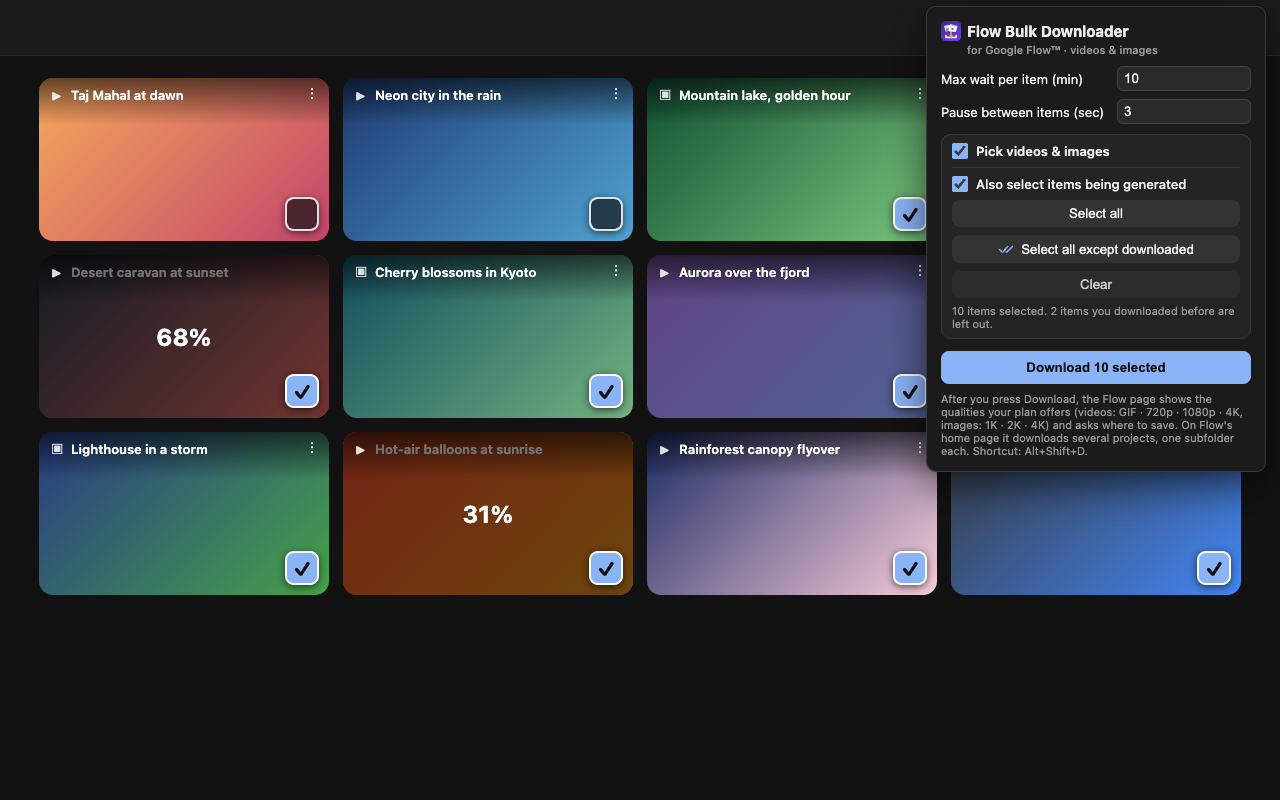
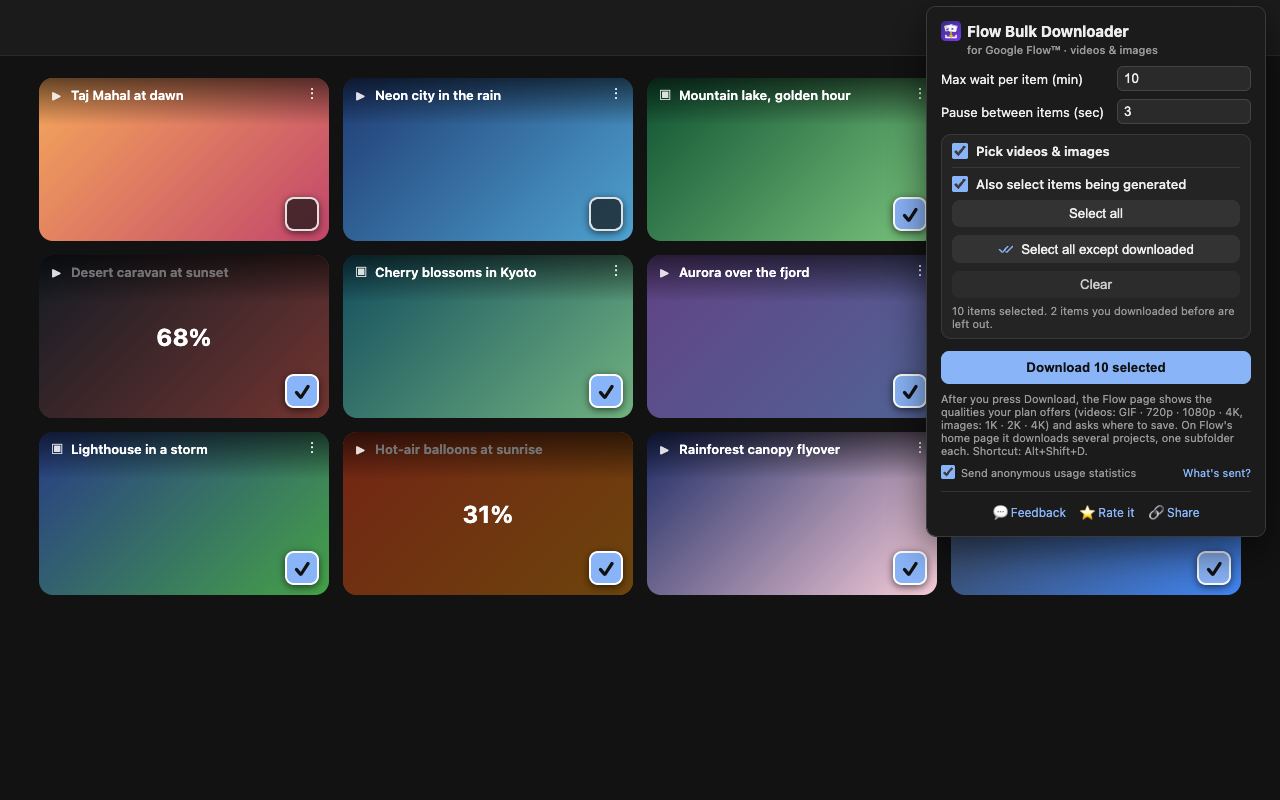
Flow Bulk Downloader 2.6.3 on the site: version, changelog, popup screenshot
- site.js: version 2.6.3 and its release date
- Changelog entries for 2.6.3 in all six languages
- shot-pick: new popup screenshot with the usage-statistics switch and
  the Feedback / Rate it / Share links

Changed region(s): [[0.6875, 0.5625, 0.9688, 0.7188]]

diff --git a/src/i18n/flow/vi.js b/src/i18n/flow/vi.js
@@ -268,6 +268,11 @@ export default {
   changelog: {
     title: "Nhật ký thay đổi",
     entries: {
+      "2.6.3": [
+        "Thêm liên kết Góp ý, Đánh giá và Chia sẻ trong cửa sổ bật lên.",
+        "Sau vài lần tải xuống thành công, tiện ích hỏi một lần xem nó có hoạt động tốt với bạn không, để vấn đề đến với chúng tôi nhanh hơn.",
+        "Một trang chào mừng ngắn sau khi cài đặt và một khảo sát tùy chọn một câu hỏi nếu bạn gỡ cài đặt."
+      ],
       "2.6.2": [
         "Chọn cả các mục đang được tạo: mỗi mục được tải ngay khi Flow tạo xong, và số thứ tự tệp vẫn theo thứ tự dự án.",
         "Trạng thái mới ⏳ ĐANG CHỜ trên các ô đang được tạo. Mục nào Flow không tạo được sẽ được nêu tên ở cuối.",

diff --git a/src/site.js b/src/site.js
@@ -18,7 +18,7 @@ export const FLOW = {
   privacyPath: "/e/flow-downloader/privacy/",
   name: "Flow Bulk Downloader",
   storeName: "Bulk Downloader for Google Flow™ – Videos & Images",
-  version: "2.6.2",
+  version: "2.6.3",
   // Chrome Web Store listing. Empty = the page says "Coming soon".
   chromeStoreUrl: "https://chromewebstore.google.com/detail/bulk-downloader-for-googl/cbnojammdmehkhjmngnomofcjejleglf",
   // Copy these from the store listing now and then (shown next to the Add to Chrome button).
@@ -129,6 +129,7 @@ export const WEBSITES = [
 
 // Changelog, newest first. The text of each entry is translated in src/i18n/flow/<lang>.js (changelog.entries).
 export const RELEASES = [
+  { version: "2.6.3", date: "2026-11-20" },
   { version: "2.6.2", date: "2026-11-16" },
   { version: "2.6.1", date: "2026-11-06" },
   { version: "2.6.0", date: "2026-10-28" }

diff --git a/src/i18n/flow/pt.js b/src/i18n/flow/pt.js
@@ -268,6 +268,11 @@ export default {
   changelog: {
     title: "Histórico de versões",
     entries: {
+      "2.6.3": [
+        "Novos links Feedback, Avaliar e Compartilhar no pop-up.",
+        "Depois de alguns downloads bem-sucedidos, pergunta uma vez se está funcionando bem para você, para que os problemas cheguem até nós mais rápido.",
+        "Uma breve página de boas-vindas após a instalação e uma pesquisa opcional de uma pergunta se você desinstalar."
+      ],
       "2.6.2": [
         "Selecione itens que ainda estão em geração: cada um é baixado assim que o Flow termina, e os números dos arquivos seguem a ordem do projeto.",
         "Novo status ⏳ AGUARDANDO nos blocos ainda em geração. O que o Flow não consegue gerar aparece pelo nome no fim.",

diff --git a/src/i18n/flow/es.js b/src/i18n/flow/es.js
@@ -268,6 +268,11 @@ export default {
   changelog: {
     title: "Registro de cambios",
     entries: {
+      "2.6.3": [
+        "Nuevos enlaces Comentarios, Valorar y Compartir en la ventana emergente.",
+        "Tras unas cuantas descargas correctas, pregunta una vez si te funciona bien, para que los problemas nos lleguen antes.",
+        "Una breve página de bienvenida al instalarla y una encuesta opcional de una pregunta si la desinstalas."
+      ],
       "2.6.2": [
         "Selecciona elementos que aún se están generando: cada uno se descarga en cuanto Flow lo termina, y los números de archivo siguen el orden del proyecto.",
         "Nuevo estado ⏳ EN ESPERA en los mosaicos que aún se generan. Lo que Flow no consigue generar aparece por nombre al final.",

diff --git a/src/i18n/flow/tr.js b/src/i18n/flow/tr.js
@@ -267,6 +267,11 @@ export default {
   changelog: {
     title: "Değişiklik günlüğü",
     entries: {
+      "2.6.3": [
+        "Açılır pencerede yeni Geri bildirim, Puan ver ve Paylaş bağlantıları.",
+        "Birkaç başarılı indirmeden sonra, sorunlar bize daha hızlı ulaşsın diye bir kez iyi çalışıp çalışmadığını sorar.",
+        "Yükledikten sonra kısa bir karşılama sayfası ve kaldırırsanız isteğe bağlı tek soruluk bir anket."
+      ],
       "2.6.2": [
         "Hâlâ üretilen öğeleri seçin: her biri Flow onu bitirdiği anda iner, dosya numaraları proje sırasında kalır.",
         "Hâlâ üretilen kutucuklarda yeni ⏳ WAITING durumu. Flow'un üretemediği öğeler sonunda adıyla belirtilir.",

diff --git a/src/i18n/flow/id.js b/src/i18n/flow/id.js
@@ -268,6 +268,11 @@ export default {
   changelog: {
     title: "Catatan perubahan",
     entries: {
+      "2.6.3": [
+        "Tautan baru Masukan, Beri nilai, dan Bagikan di popup.",
+        "Setelah beberapa unduhan berhasil, ekstensi bertanya sekali apakah berjalan baik untuk Anda, agar masalah lebih cepat sampai ke kami.",
+        "Halaman sambutan singkat setelah dipasang, dan survei opsional satu pertanyaan jika Anda mencopotnya."
+      ],
       "2.6.2": [
         "Pilih item yang masih dibuat: masing-masing diunduh begitu Flow selesai membuatnya, dan nomor file tetap sesuai urutan proyek.",
         "Status baru ⏳ MENUNGGU di ubin yang masih dibuat. Item yang gagal dibuat Flow disebutkan namanya di akhir.",

diff --git a/src/i18n/flow/en.js b/src/i18n/flow/en.js
@@ -271,6 +271,11 @@ export default {
   changelog: {
     title: "Changelog",
     entries: {
+      "2.6.3": [
+        "New Feedback, Rate it and Share links in the popup.",
+        "After a few good downloads it asks once whether it's working well for you, so problems reach us faster.",
+        "A short welcome page after installing, and an optional one-question survey if you uninstall."
+      ],
       "2.6.2": [
         "Select items that are still being generated: each one downloads the moment Flow finishes it, and file numbers stay in project order.",
         "New ⏳ WAITING status on tiles still being generated. Items Flow fails to make are named at the end.",
